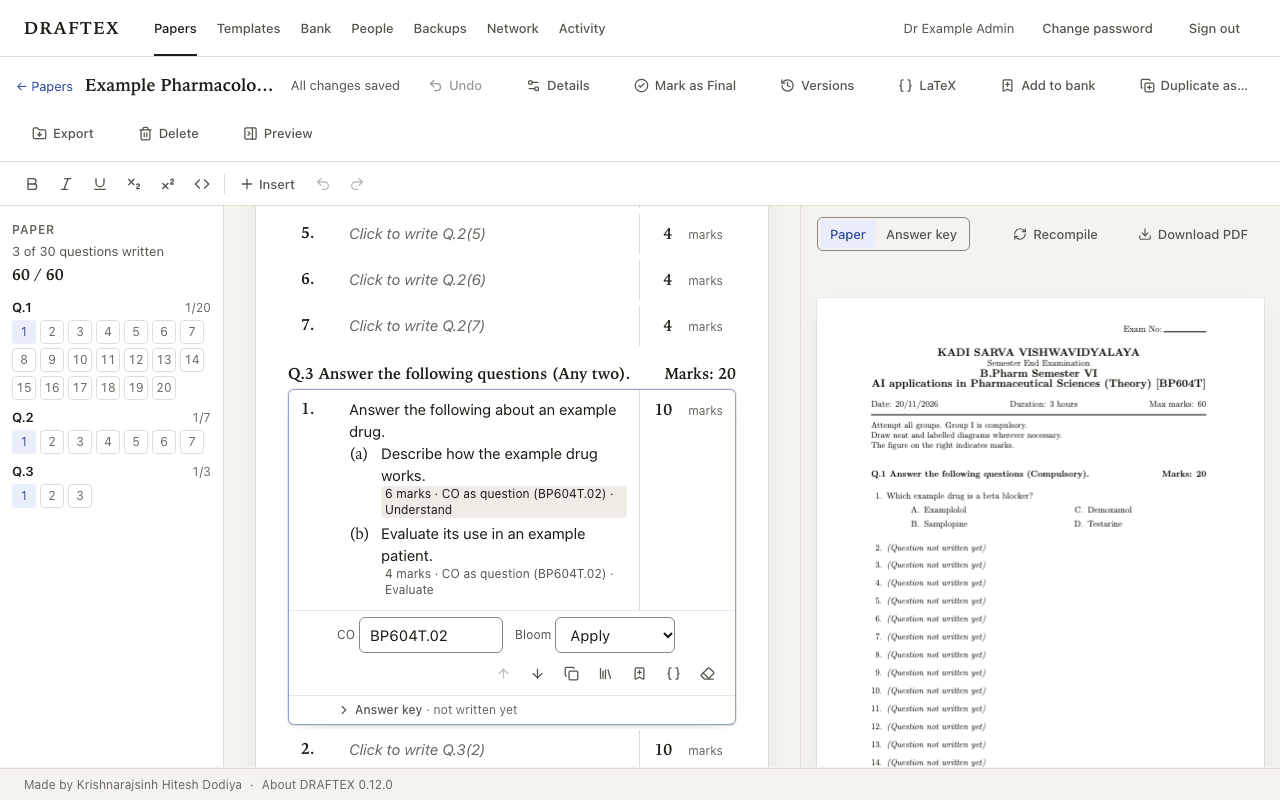
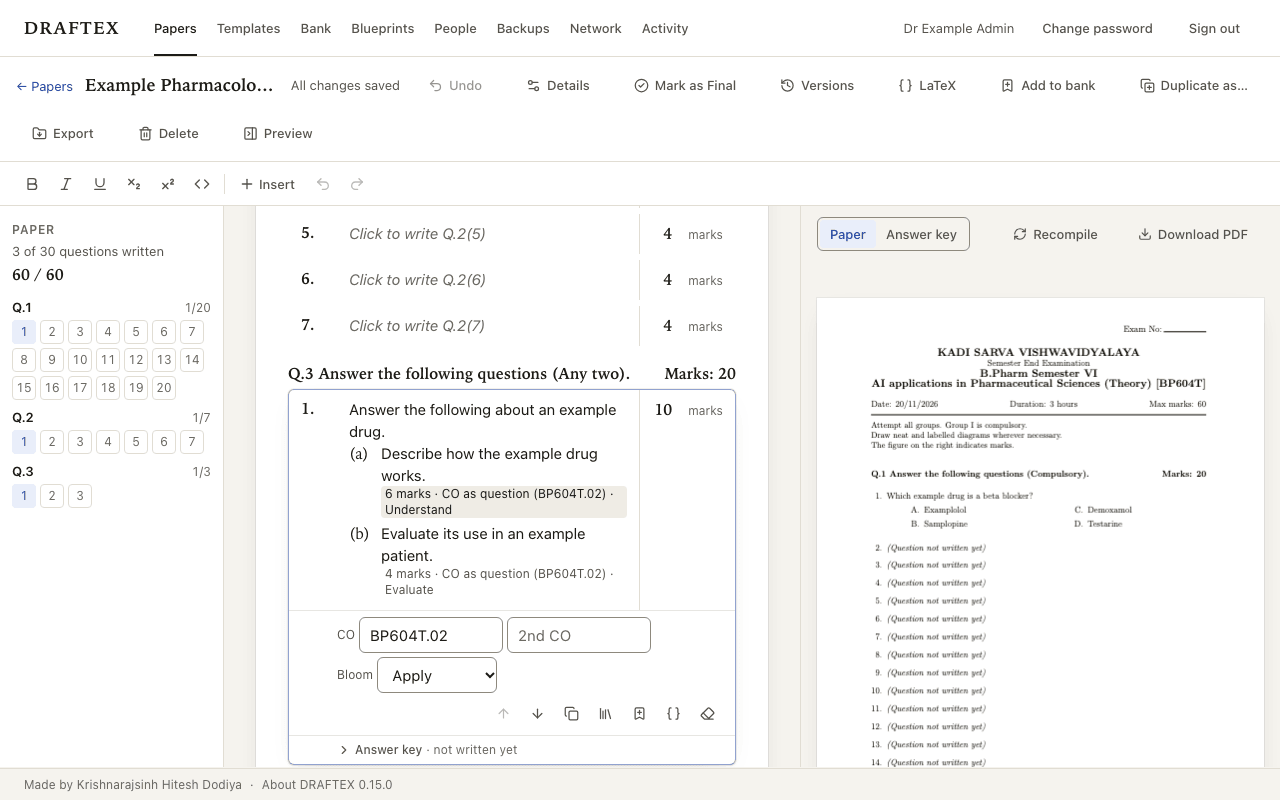
docs: finding bank questions, pages and near-duplicates in the guide
The screenshot script also selects the blueprint exam by its new label
and keeps its CSV until Save has re-sent it.

diff --git a/scripts/guide-screenshots.ts b/scripts/guide-screenshots.ts
@@ -230,6 +230,7 @@ fs.writeFileSync(
     "course code,unit,co,bloom,marks,type,question,answer,tags,choice a,choice b,choice c,choice d,correct",
     "BP604T,1,1,Remember,1,OBJECTIVE,Which of these is an invented drug class?,,example,First,Second,Third,Fourth,b",
     "BP604T,2,2,Understand,5,SHORT,Explain an invented process in your own words.,Points to cover.,example,,,,,",
+    "BP604T,2,2,Understand,5,SHORT,Explain the invented process in your own words with an example.,,,,,,,",
     "BP604T,2,2,Recall,5,SHORT,Describe an invented assay.,,,,,,,",
     "MPH101T,,MPH101T.03,Evaluate,10,LONG,Evaluate an invented delivery system.,,,,,,,",
   ].join("\r\n"),
@@ -240,7 +241,14 @@ await page.getByRole("button", { name: "Choose a CSV file" }).click();
 await (await chooser).setFiles(csvFile);
 await page.getByRole("status").filter({ hasText: "Read as" }).waitFor();
 await shot(page, "17-import");
+// Phase 16 (D114): save the ready rows (Save sends the file again, so it is
+// deleted only afterwards), then the alike pair is listed.
+await page.getByRole("button", { name: /^Save \d+ question/ }).click();
+await page.getByText(/were saved to your bank/).waitFor();
 fs.rmSync(csvFile, { force: true });
+await page.goto("/bank/duplicates");
+await page.getByRole("list", { name: "Possible duplicates" }).waitFor();
+await shot(page, "23-duplicates");
 
 await page.goto("/admin/backups");
 await page.getByRole("button", { name: "Back up now" }).click();
@@ -350,7 +358,7 @@ await shot(page, "20-table");
 // Phase 15: a CO blueprint for the example paper's course, then the check.
 await page.goto("/blueprints/new");
 await page.getByLabel("Course code").fill("BP604T");
-await page.getByLabel("Exam group").selectOption({ label: "End-semester" });
+await page.getByRole("combobox", { name: /^Exam\b/ }).selectOption({ label: "End-semester" });
 await page.getByLabel("Allowed difference (±marks)").fill("2");
 for (const [i, [co, target]] of (
   [

diff --git a/docs/USER_GUIDE.md b/docs/USER_GUIDE.md
@@ -394,6 +394,9 @@ The **Papers** page lists your papers, the most recently changed first.
 The search looks at titles and courses, not at the questions. Like
 everything in DRAFTEX, it only ever shows your own papers.
 
+The list shows 50 papers at a time. **Older** and **Newer** at the bottom
+move between pages, and keep your search and filters.
+
 ---
 
 ## 8. The question bank
@@ -418,6 +421,20 @@ syllabus, or an M.Pharm or Pharm.D course. A CO that the syllabus does not
 list is saved with a note, never refused. Every question needs a **Bloom
 level** and a **CO**.
 
+### Finding questions
+
+Type words in **Search** and click **Show**. A question is listed when it
+contains **every** word you typed, in its text, its answer, its tags, its
+course code or title, or its COs. A word can be part of a longer one:
+`butyl` finds *isobutylphenyl*. Capitals and accents do not matter (`cafe`
+finds *Café*). Words of one or two letters are matched as typed, apart from
+capitals. Up to eight words are used.
+
+The bank shows 50 questions at a time, the most recently changed first;
+**Older** and **Newer** move between pages. The same search in the paper's
+bank picker shows the newest 50: narrow it with the filters to reach older
+ones.
+
 ### Adding questions
 
 - **New question** on the Bank page: write it like a question in a paper
@@ -433,6 +450,26 @@ level** and a **CO**.
 A question counts as already in your bank when its text is the same in the
 same course, ignoring capitals, extra spaces and bold or italic. Writing one
 by hand that is already there only gives a note.
+
+### Questions that read almost the same
+
+DRAFTEX also notices questions that are worded **almost** the same as one
+of yours in the same course, for example the same question with one word
+changed. When you save such a question, open one, or import one from CSV,
+you get a note naming the similar ones, with a link to each. Nothing is
+blocked: two questions about different drugs can look alike and both be
+right.
+
+**Possible duplicates** on the Bank page lists the 50 most alike pairs in
+your own bank, to tidy it up. Only your own questions are compared, never a
+colleague's, and questions in Trash are left out.
+
+![Possible duplicates](user-guide/23-duplicates.png)
+
+The comparison counts runs of three words that both questions share.
+Phrases that appear in very many of your questions in one course (such as
+"explain the mechanism of action of") do not make two questions alike on
+their own.
 
 ### Using a bank question in a paper
 
@@ -459,7 +496,9 @@ an insert back.
    and 1 MB per file.
 4. Choose the file. DRAFTEX shows how it read the file (for example
    "Read as UTF-8") and checks every row: **Ready**, **Problem** with the
-   reason, or **Duplicate**. Nothing is saved yet.
+   reason, or **Duplicate**. A ready row that reads almost the same as a
+   question in your bank, or as an earlier row, gets a note; it is still
+   saved. Nothing is saved yet.
 
    ![Import preview](user-guide/17-import.png)
 
